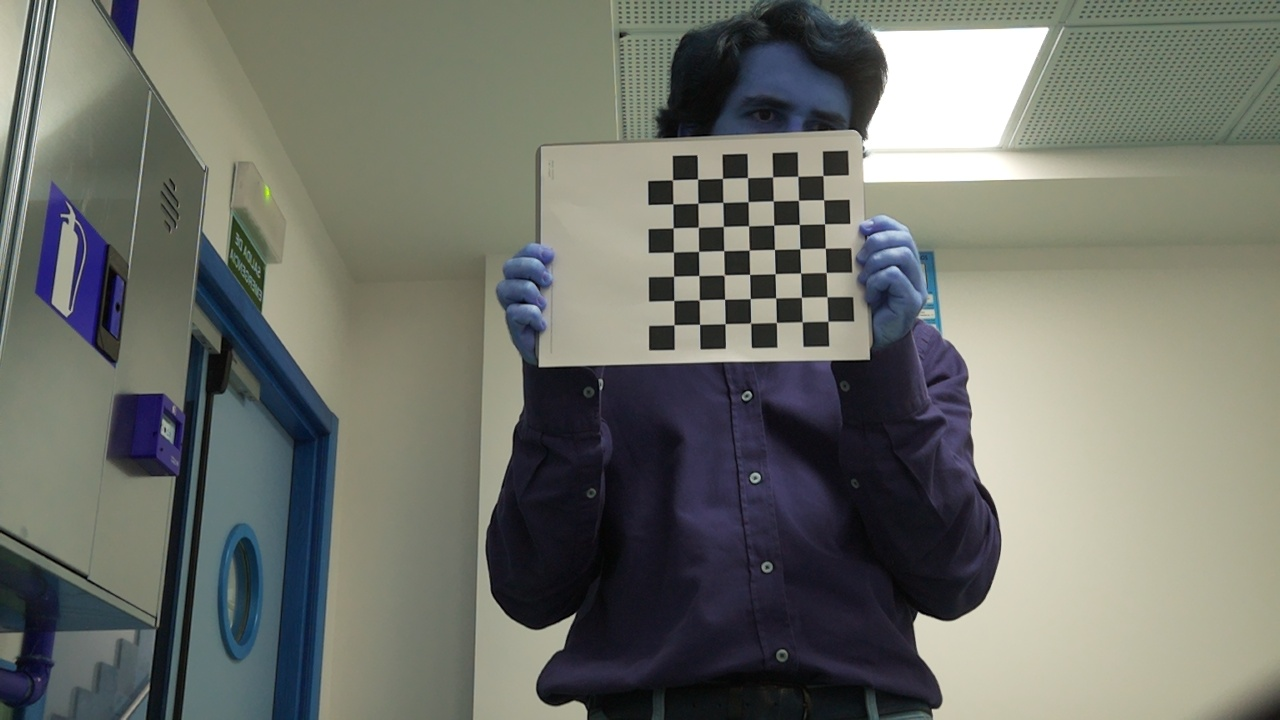
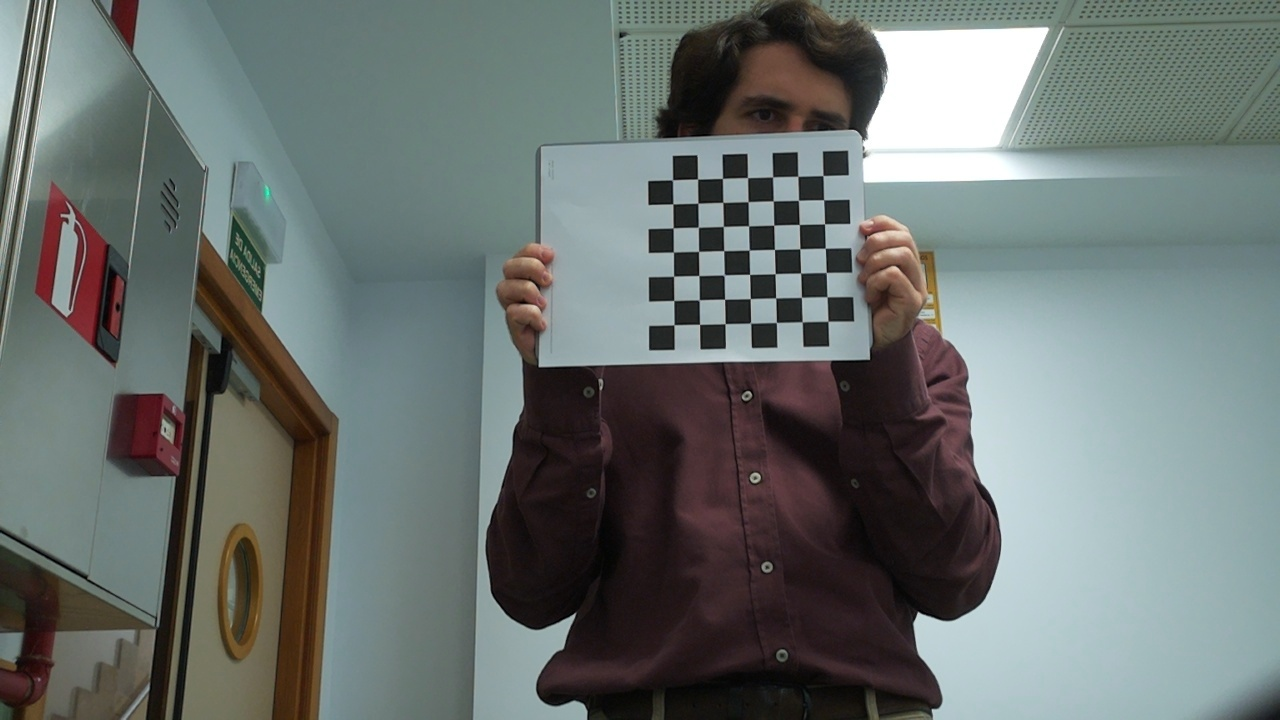
images_rgb

diff --git a/take_pictures.py b/take_pictures.py
@@ -14,9 +14,9 @@ def take_pictures():
     while True:
         # Take a picture if p is pressed and break program if q is pressed
         frame = picam.capture_array()
-        cv2.imshow("picam", frame[::-1])
+        cv2.imshow("picam", cv2.cvtColor(frame, cv2.COLOR_RGB2BGR)[::-1])
         if cv2.waitKey(1) & 0xFF == ord('p'):
-            cv2.imwrite("images/image"+str(i)+".jpg", frame[::-1])
+            cv2.imwrite("images_checkers/image"+str(i)+".jpg", frame[::-1])
             i += 1
         elif cv2.waitKey(1) & 0xFF == ord('q'):
             break
